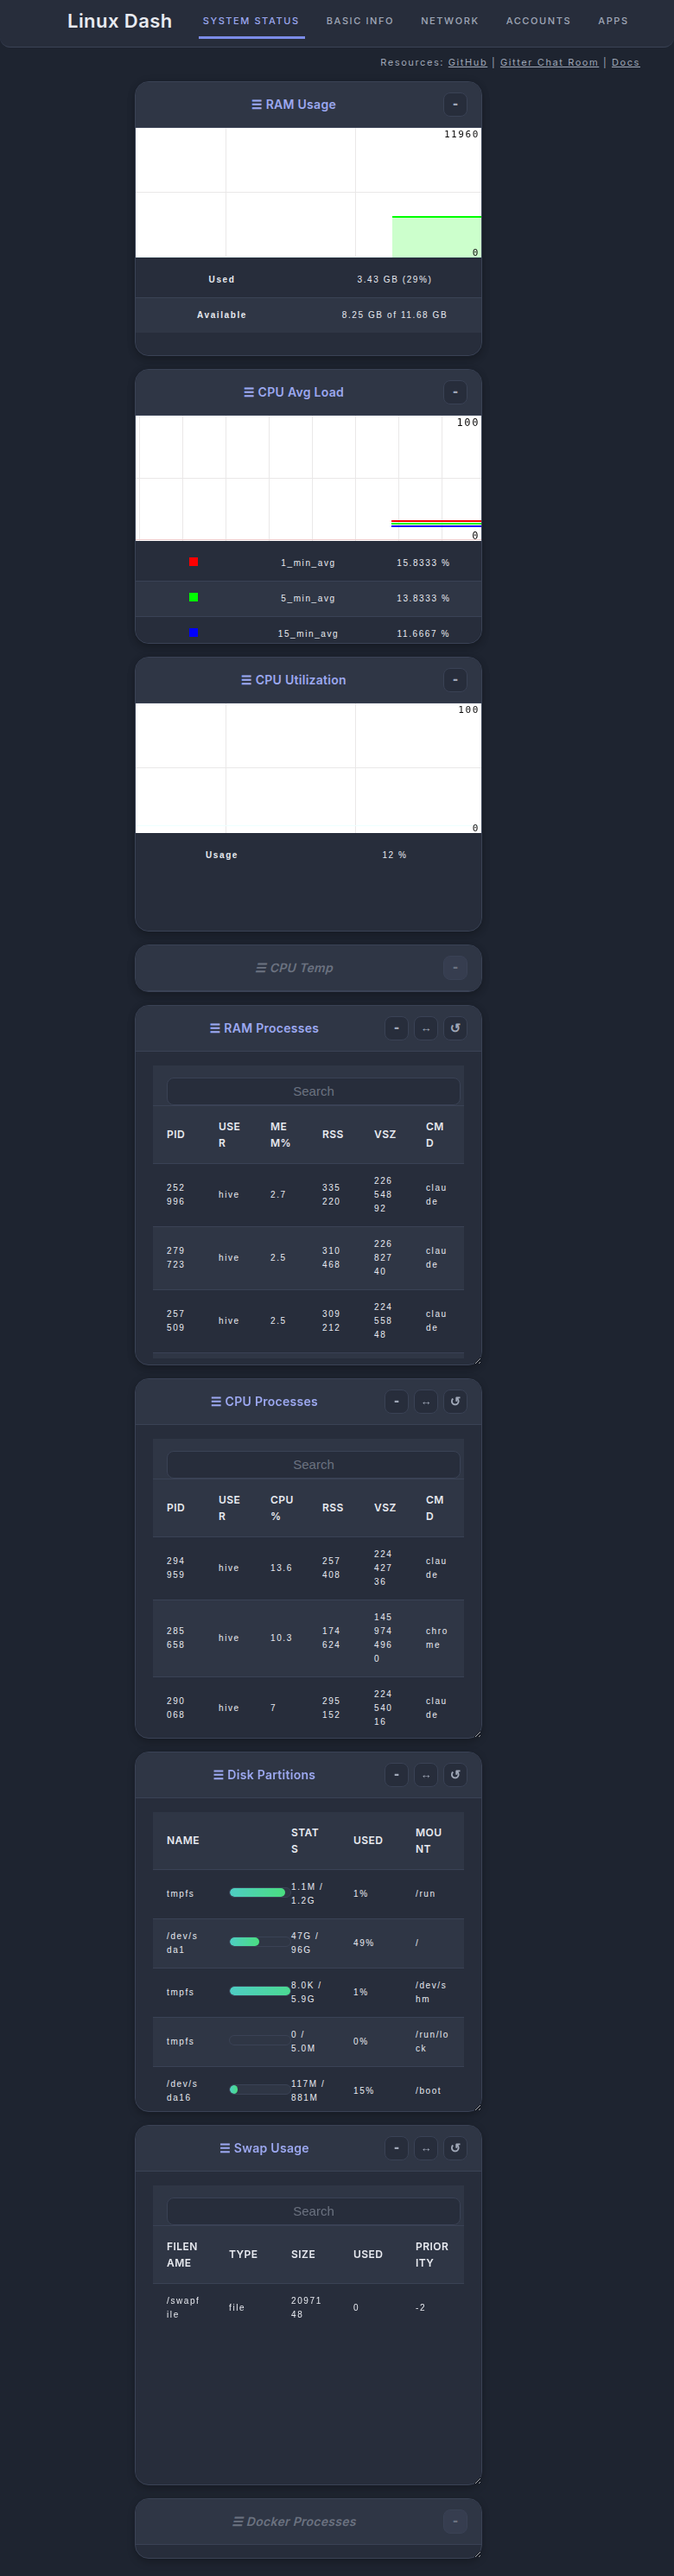
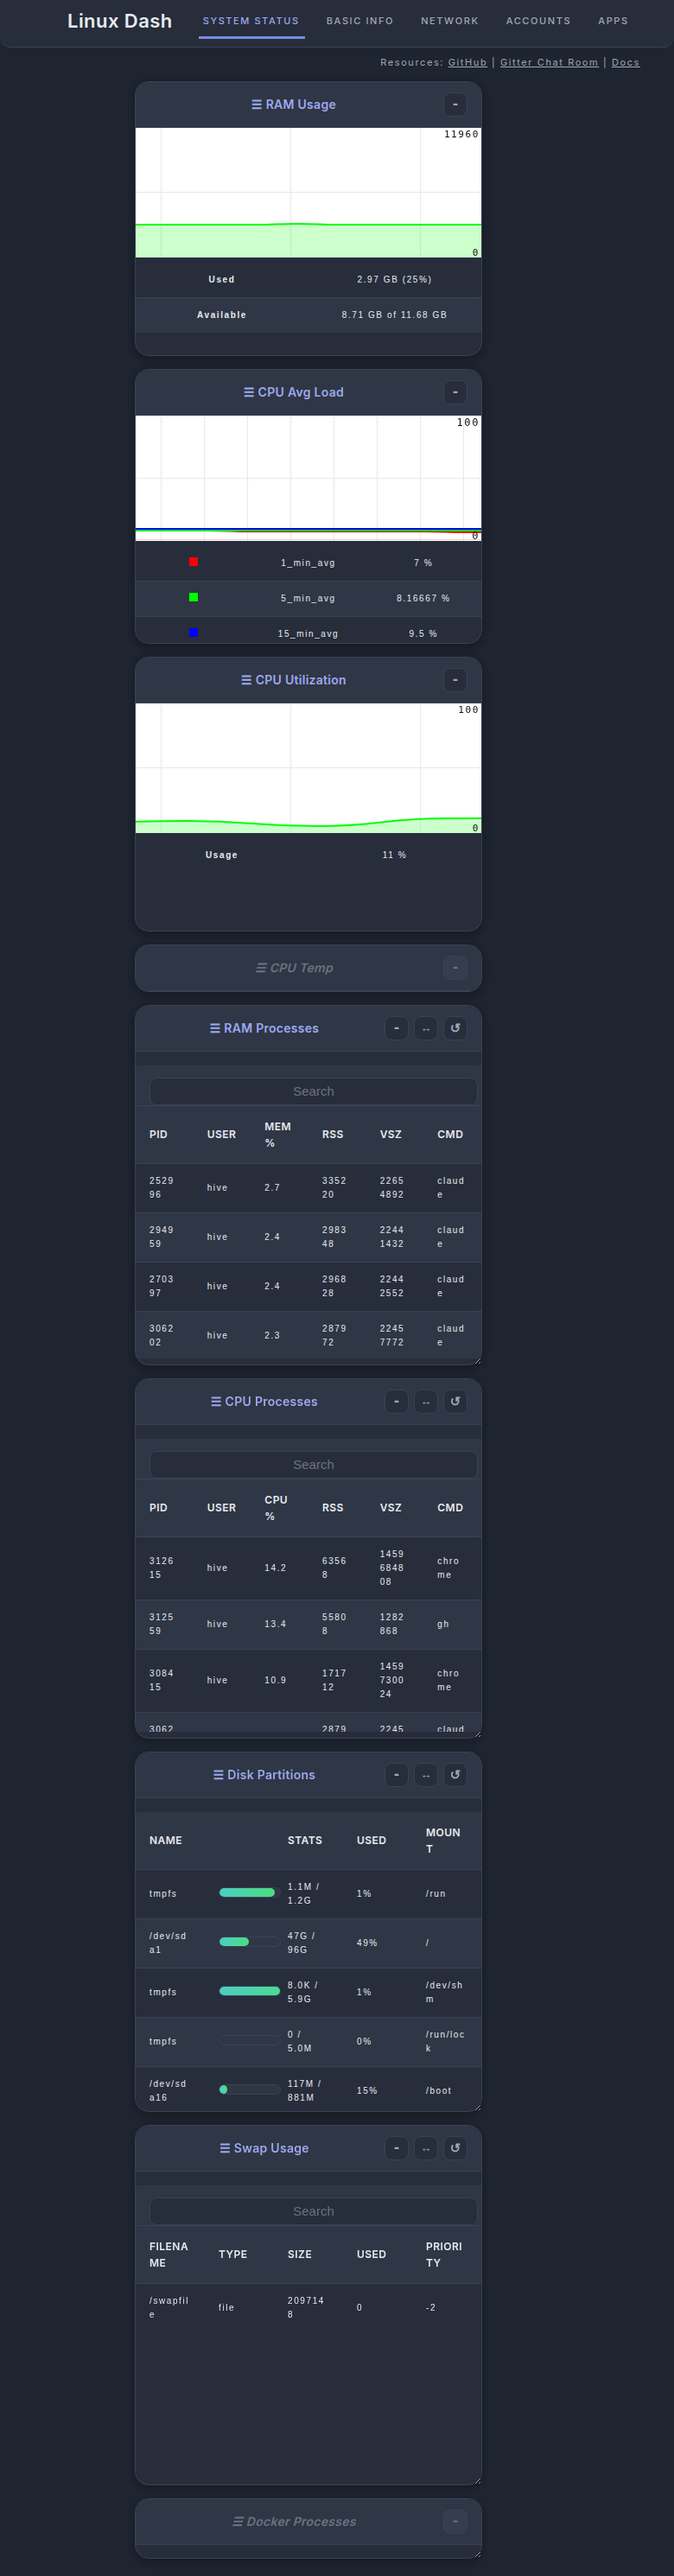
Fix flat skin: make tables full-width in all plugin cards
Updated CSS selector to use :has(table) to match all plugin bodies
containing tables, removing horizontal padding so tables stretch edge-to-edge.

🤖 Generated with [Claude Code](https://claude.com/claude-code)

diff --git a/app/skins/flat.min.css b/app/skins/flat.min.css
@@ -1,1 +1,1 @@
-.top-bar,nav-bar,table td,table th{border-bottom:1px solid var(--flat-border)}body,nav-bar .title{color:var(--flat-text)}.top-bar .heading,nav-bar .title{font-weight:600;letter-spacing:.02em}:root{--flat-primary:#7c8ce8;--flat-primary-dark:#5c6cc8;--flat-primary-light:#9ca8f0;--flat-accent:#4ecdc4;--flat-accent-dark:#3db8b0;--flat-background:#1e2430;--flat-surface:#272d3b;--flat-surface-alt:#2f3645;--flat-surface-hover:#363d4f;--flat-text:#e8eaf0;--flat-text-secondary:#a0a8b8;--flat-text-muted:#6b7280;--flat-border:#3a4255;--flat-success:#4ade80;--flat-warning:#fbbf24;--flat-error:#f87171;--flat-radius:12px;--flat-radius-sm:8px;--flat-radius-lg:16px}body{background-color:var(--flat-background);font-family:Inter,'Segoe UI',-apple-system,BlinkMacSystemFont,sans-serif}nav-bar{background:var(--flat-surface);border-radius:0 0 var(--flat-radius) var(--flat-radius);height:48px;padding-top:6px}nav-bar .title{font-size:22px}nav-bar ul li a{color:var(--flat-text-secondary);font-weight:500;transition:color .2s ease}nav-bar ul li a:hover,nav-bar ul li.active a{color:var(--flat-primary-light)}nav-bar ul li.active{border-bottom:3px solid var(--flat-primary)}nav-bar .right-content,nav-bar .right-content a{color:var(--flat-text-secondary)}nav-bar .right-content{margin-top:12px}.top-bar .heading,nav-bar .right-content a:hover{color:var(--flat-primary-light)}#plugins{padding:20px 10%}.plugin{background-color:var(--flat-surface);border-radius:var(--flat-radius-lg);border:1px solid var(--flat-border);margin:20px 20px 0 0;transition:border-color .2s ease,background-color .2s ease;overflow:hidden;animation:flatFadeIn .4s ease-out}.plugin:hover{border-color:var(--flat-primary);background-color:var(--flat-surface-alt)}.top-bar{background:var(--flat-surface-alt);padding:12px 16px;height:auto;display:flex;align-items:center;justify-content:space-between}.top-bar .heading{font-size:14px;float:none;flex:1}.plugin-hidden .top-bar .heading{color:var(--flat-text-muted)}.ld-top-bar-btn{background:var(--flat-surface);border:1px solid var(--flat-border);border-radius:var(--flat-radius-sm);color:var(--flat-text-secondary);width:28px;height:28px;margin:0 0 0 6px;padding:0;float:none;display:inline-flex;align-items:center;justify-content:center;font-size:14px;line-height:28px;text-align:center;vertical-align:middle;box-sizing:border-box;transition:all .2s ease}.ld-top-bar-btn.minimize-btn{font-size:18px;font-weight:700;padding-bottom:2px}.ld-top-bar-btn.width-toggle-btn{font-size:13px}.ld-top-bar-btn.refresh-btn{font-size:15px}.ld-top-bar-btn:hover{background:var(--flat-primary);border-color:var(--flat-primary);color:#fff}.ld-refresh-btn:hover{background:var(--flat-accent);border-color:var(--flat-accent);color:#fff}.ld-refresh-btn:active{background:var(--flat-accent-dark);border-color:var(--flat-accent-dark)}.plugin-enlarged .width-toggle-btn,.plugin-hidden .minimize-btn{background:var(--flat-surface-hover);color:var(--flat-text-muted)}.plugin-body{background-color:var(--flat-surface);border-top:none;padding:16px 20px;font-size:13px;line-height:1.6;color:var(--flat-text)}.table-data-plugin .plugin-body{padding-left:0;padding-right:0}.progress-bar{background-color:var(--flat-surface-alt);border-radius:var(--flat-radius-sm);padding:0;height:10px;overflow:hidden;border:1px solid var(--flat-border)}.progress-bar>div{background:linear-gradient(90deg,var(--flat-accent) 0,var(--flat-success) 100%);height:10px;border-radius:var(--flat-radius-sm);transition:width .5s ease}table th,table tr:nth-child(even) td{background-color:var(--flat-surface-alt)}table{border-collapse:separate;border-spacing:0;width:100%}table th{color:var(--flat-text);font-weight:600;font-size:12px;text-transform:uppercase;letter-spacing:.04em;padding:14px 16px}.table-data-plugin thead tr th a,.table-data-plugin thead tr th a:link,.table-data-plugin thead tr th a:visited,table th a,table th a:link,table th a:visited{color:var(--flat-text);text-decoration:none}table th a:hover{color:var(--flat-primary-light)}table th:first-child,table th:last-child,table tr:last-child td:first-child,table tr:last-child td:last-child{border-radius:0}table td{padding:12px 16px;background-color:var(--flat-surface);color:var(--flat-text)}table tr:hover td{background-color:var(--flat-surface-hover)}table tr:last-child td{border-bottom:none}.table-data-plugin thead tr th a:hover{color:var(--flat-primary-light)}.table-data-plugin .column-sort-caret{color:var(--flat-primary)}.table-data-plugin .filter-container{background-color:var(--flat-surface-alt)}.table-data-plugin .filter,.table-data-plugin .filter:active,.table-data-plugin .filter:focus{background:var(--flat-surface);color:var(--flat-text);border:1px solid var(--flat-border);border-radius:var(--flat-radius-sm)}.table-data-plugin .filter::placeholder{color:var(--flat-text-muted)}.table-data-plugin .filter:focus{border-color:var(--flat-primary);outline:0}.key-value-list{padding:8px 0}.key-value-list .row{padding:10px 16px;border-radius:var(--flat-radius-sm);margin-bottom:4px;transition:background-color .2s ease}.key-value-list .row:hover{background-color:var(--flat-surface-alt)}.key-value-list .key{color:var(--flat-text-secondary);font-weight:500;font-size:12px;text-transform:uppercase;letter-spacing:.02em}.key-value-list .value{color:var(--flat-text);font-weight:600}.button,button,input[type=button],input[type=submit]{background:var(--flat-primary);color:#fff;border:none;border-radius:var(--flat-radius-sm);padding:10px 20px;font-weight:600;font-size:13px;cursor:pointer;transition:all .2s ease}.button:hover,button:hover,input[type=button]:hover,input[type=submit]:hover{background:var(--flat-primary-dark);transform:translateY(-1px)}.button:active,button:active,input[type=button]:active,input[type=submit]:active{transform:translateY(0)}input[type=text],input[type=search],input[type=email],input[type=number],select,textarea{background-color:var(--flat-surface-alt);border:1px solid var(--flat-border);border-radius:var(--flat-radius-sm);padding:10px 14px;font-size:14px;color:var(--flat-text);transition:all .2s ease}input[type=text]:focus,input[type=search]:focus,input[type=email]:focus,input[type=number]:focus,select:focus,textarea:focus{border-color:var(--flat-primary);outline:0}input[type=text]::placeholder,input[type=search]::placeholder,input[type=email]::placeholder,input[type=number]::placeholder,textarea::placeholder{color:var(--flat-text-muted)}.table-data input[type=text]{border:1px solid var(--flat-border);border-radius:var(--flat-radius-sm);padding:8px 12px;background-color:var(--flat-surface-alt);color:var(--flat-text)}.table-data input[type=text]:focus{border-color:var(--flat-primary)}.plugin ::-webkit-scrollbar{width:10px;height:10px}.plugin ::-webkit-scrollbar-track{background:var(--flat-surface);border-radius:var(--flat-radius-sm)}.plugin ::-webkit-scrollbar-thumb{background:var(--flat-border);border-radius:var(--flat-radius-sm);border:2px solid var(--flat-surface)}.plugin ::-webkit-scrollbar-thumb:hover{background:var(--flat-text-muted)}.plugin.chart-plugin{border-radius:var(--flat-radius-lg)}.plugin.chart-plugin .plugin-body{padding:0;border-radius:0 0 var(--flat-radius-lg) var(--flat-radius-lg);overflow:hidden}.ld-loader{border-radius:50%}.ld-loader::after{border-color:var(--flat-primary) transparent transparent;border-width:3px}@media (max-width:768px){nav-bar{border-radius:0}.plugin{margin:15px auto;border-radius:var(--flat-radius)}#plugins{padding:10px 5%}}@media (max-width:950px){.plugin{margin:15px 10px 0 0}}@keyframes flatFadeIn{from{opacity:0;transform:translateY(10px)}to{opacity:1;transform:translateY(0)}}@media print{nav-bar{background:#333}.plugin{border:1px solid #ddd;page-break-inside:avoid}.ld-top-bar-btn{display:none}}
+:root{--flat-primary:#7c8ce8;--flat-primary-dark:#5c6cc8;--flat-primary-light:#9ca8f0;--flat-accent:#4ecdc4;--flat-accent-dark:#3db8b0;--flat-background:#1e2430;--flat-surface:#272d3b;--flat-surface-alt:#2f3645;--flat-surface-hover:#363d4f;--flat-text:#e8eaf0;--flat-text-secondary:#a0a8b8;--flat-text-muted:#6b7280;--flat-border:#3a4255;--flat-success:#4ade80;--flat-warning:#fbbf24;--flat-error:#f87171;--flat-radius:12px;--flat-radius-sm:8px;--flat-radius-lg:16px}body{background-color:var(--flat-background);font-family:Inter,'Segoe UI',-apple-system,BlinkMacSystemFont,sans-serif;color:var(--flat-text)}nav-bar{background:var(--flat-surface);border-radius:0 0 var(--flat-radius) var(--flat-radius);height:48px;padding-top:6px;border-bottom:1px solid var(--flat-border)}nav-bar .title{color:var(--flat-text);font-weight:600;font-size:22px;letter-spacing:.02em}nav-bar ul li a{color:var(--flat-text-secondary);font-weight:500;transition:color .2s ease}nav-bar ul li a:hover{color:var(--flat-primary-light)}nav-bar ul li.active{border-bottom:3px solid var(--flat-primary)}nav-bar ul li.active a{color:var(--flat-primary-light)}nav-bar .right-content{color:var(--flat-text-secondary);margin-top:12px}nav-bar .right-content a{color:var(--flat-text-secondary)}nav-bar .right-content a:hover{color:var(--flat-primary-light)}#plugins{padding:20px 10%}.plugin{background-color:var(--flat-surface);border-radius:var(--flat-radius-lg);border:1px solid var(--flat-border);margin:20px 20px 0 0;transition:border-color .2s ease,background-color .2s ease;overflow:hidden}.plugin:hover{border-color:var(--flat-primary);background-color:var(--flat-surface-alt)}.top-bar{background:var(--flat-surface-alt);border-bottom:1px solid var(--flat-border);padding:12px 16px;height:auto;display:flex;align-items:center;justify-content:space-between}.top-bar .heading{color:var(--flat-primary-light);font-weight:600;font-size:14px;letter-spacing:.02em;float:none;flex:1}.plugin-hidden .top-bar .heading{color:var(--flat-text-muted)}.ld-top-bar-btn{background:var(--flat-surface);border:1px solid var(--flat-border);border-radius:var(--flat-radius-sm);color:var(--flat-text-secondary);width:28px;height:28px;margin:0 0 0 6px;padding:0;float:none;display:inline-flex;align-items:center;justify-content:center;font-size:14px;line-height:28px;text-align:center;vertical-align:middle;box-sizing:border-box;transition:all .2s ease}.ld-top-bar-btn.minimize-btn{font-size:18px;font-weight:700;padding-bottom:2px}.ld-top-bar-btn.width-toggle-btn{font-size:13px}.ld-top-bar-btn.refresh-btn{font-size:15px}.ld-top-bar-btn:hover{background:var(--flat-primary);border-color:var(--flat-primary);color:#fff}.ld-refresh-btn:hover{background:var(--flat-accent);border-color:var(--flat-accent);color:#fff}.ld-refresh-btn:active{background:var(--flat-accent-dark);border-color:var(--flat-accent-dark)}.plugin-enlarged .width-toggle-btn,.plugin-hidden .minimize-btn{background:var(--flat-surface-hover);color:var(--flat-text-muted)}.plugin-body{background-color:var(--flat-surface);border-top:none;padding:16px 20px;font-size:13px;line-height:1.6;color:var(--flat-text)}.plugin-body:has(table),.table-data-plugin .plugin-body{padding-left:0;padding-right:0}.progress-bar{background-color:var(--flat-surface-alt);border-radius:var(--flat-radius-sm);padding:0;height:10px;overflow:hidden;border:1px solid var(--flat-border)}.progress-bar>div{background:linear-gradient(90deg,var(--flat-accent) 0,var(--flat-success) 100%);height:10px;border-radius:var(--flat-radius-sm);transition:width .5s ease}table{border-collapse:separate;border-spacing:0;width:100%}table th{background-color:var(--flat-surface-alt);color:var(--flat-text);font-weight:600;font-size:12px;text-transform:uppercase;letter-spacing:.04em;padding:14px 16px;border-bottom:1px solid var(--flat-border)}table th a,table th a:link,table th a:visited{color:var(--flat-text);text-decoration:none}table th a:hover{color:var(--flat-primary-light)}table th:first-child{border-radius:0}table th:last-child{border-radius:0}table td{padding:12px 16px;border-bottom:1px solid var(--flat-border);background-color:var(--flat-surface);color:var(--flat-text)}table tr:nth-child(2n) td{background-color:var(--flat-surface-alt)}table tr:hover td{background-color:var(--flat-surface-hover)}table tr:last-child td{border-bottom:none}table tr:last-child td:first-child{border-radius:0}table tr:last-child td:last-child{border-radius:0}.table-data-plugin thead tr th a,.table-data-plugin thead tr th a:link,.table-data-plugin thead tr th a:visited{color:var(--flat-text);text-decoration:none}.table-data-plugin thead tr th a:hover{color:var(--flat-primary-light)}.table-data-plugin .column-sort-caret{color:var(--flat-primary)}.table-data-plugin .filter-container{background-color:var(--flat-surface-alt)}.table-data-plugin .filter,.table-data-plugin .filter:active,.table-data-plugin .filter:focus{background:var(--flat-surface);color:var(--flat-text);border:1px solid var(--flat-border);border-radius:var(--flat-radius-sm)}.table-data-plugin .filter::placeholder{color:var(--flat-text-muted)}.table-data-plugin .filter:focus{border-color:var(--flat-primary);outline:0}.key-value-list{padding:8px 0}.key-value-list .row{padding:10px 16px;border-radius:var(--flat-radius-sm);margin-bottom:4px;transition:background-color .2s ease}.key-value-list .row:hover{background-color:var(--flat-surface-alt)}.key-value-list .key{color:var(--flat-text-secondary);font-weight:500;font-size:12px;text-transform:uppercase;letter-spacing:.02em}.key-value-list .value{color:var(--flat-text);font-weight:600}.button,button,input[type=button],input[type=submit]{background:var(--flat-primary);color:#fff;border:none;border-radius:var(--flat-radius-sm);padding:10px 20px;font-weight:600;font-size:13px;cursor:pointer;transition:all .2s ease}.button:hover,button:hover,input[type=button]:hover,input[type=submit]:hover{background:var(--flat-primary-dark);transform:translateY(-1px)}.button:active,button:active,input[type=button]:active,input[type=submit]:active{transform:translateY(0)}input[type=email],input[type=number],input[type=search],input[type=text],select,textarea{background-color:var(--flat-surface-alt);border:1px solid var(--flat-border);border-radius:var(--flat-radius-sm);padding:10px 14px;font-size:14px;color:var(--flat-text);transition:all .2s ease}input[type=email]:focus,input[type=number]:focus,input[type=search]:focus,input[type=text]:focus,select:focus,textarea:focus{border-color:var(--flat-primary);outline:0}input[type=email]::placeholder,input[type=number]::placeholder,input[type=search]::placeholder,input[type=text]::placeholder,textarea::placeholder{color:var(--flat-text-muted)}.table-data input[type=text]{border:1px solid var(--flat-border);border-radius:var(--flat-radius-sm);padding:8px 12px;background-color:var(--flat-surface-alt);color:var(--flat-text)}.table-data input[type=text]:focus{border-color:var(--flat-primary)}.plugin ::-webkit-scrollbar{width:10px;height:10px}.plugin ::-webkit-scrollbar-track{background:var(--flat-surface);border-radius:var(--flat-radius-sm)}.plugin ::-webkit-scrollbar-thumb{background:var(--flat-border);border-radius:var(--flat-radius-sm);border:2px solid var(--flat-surface)}.plugin ::-webkit-scrollbar-thumb:hover{background:var(--flat-text-muted)}.plugin.chart-plugin{border-radius:var(--flat-radius-lg)}.plugin.chart-plugin .plugin-body{padding:0;border-radius:0 0 var(--flat-radius-lg) var(--flat-radius-lg);overflow:hidden}.ld-loader{border-radius:50%}.ld-loader::after{border-color:var(--flat-primary) transparent transparent transparent;border-width:3px}@media (max-width:768px){nav-bar{border-radius:0}.plugin{margin:15px auto;border-radius:var(--flat-radius)}#plugins{padding:10px 5%}}@media (max-width:950px){.plugin{margin:15px 10px 0 0}}@keyframes flatFadeIn{from{opacity:0;transform:translateY(10px)}to{opacity:1;transform:translateY(0)}}.plugin{animation:flatFadeIn .4s ease-out}@media print{nav-bar{background:#333}.plugin{border:1px solid #ddd;page-break-inside:avoid}.ld-top-bar-btn{display:none}}

diff --git a/src/css/skins/flat/flat.css b/src/css/skins/flat/flat.css
@@ -218,7 +218,8 @@ nav-bar .right-content a:hover {
 }
 
 /* Remove horizontal padding for table plugins so tables stretch to full width */
-.table-data-plugin .plugin-body {
+.table-data-plugin .plugin-body,
+.plugin-body:has(table) {
     padding-left: 0;
     padding-right: 0;
 }
